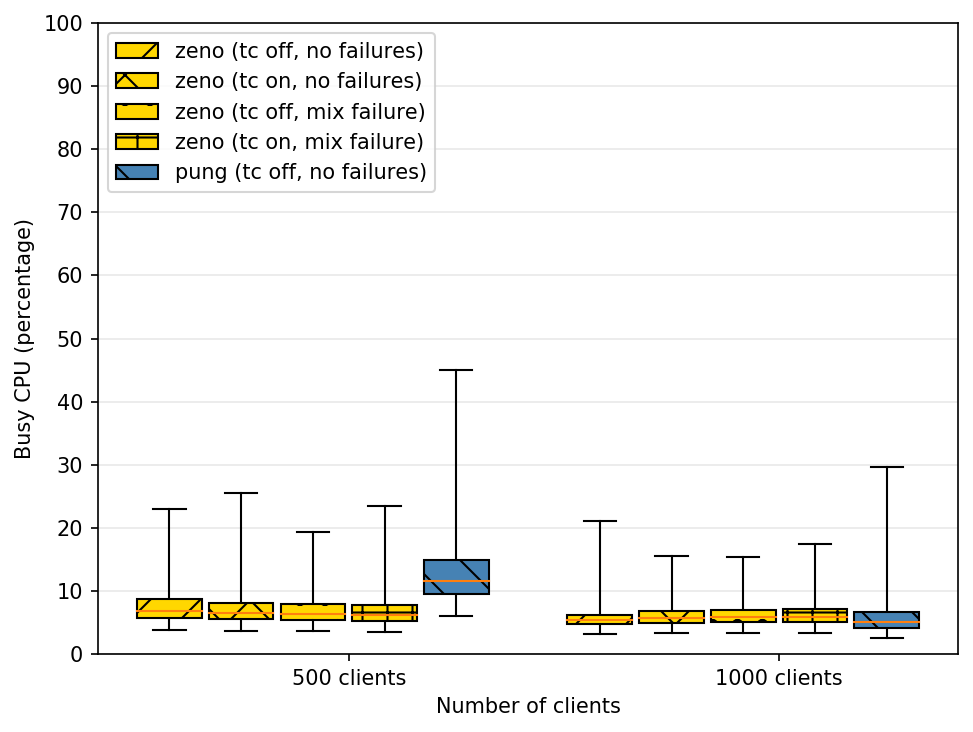
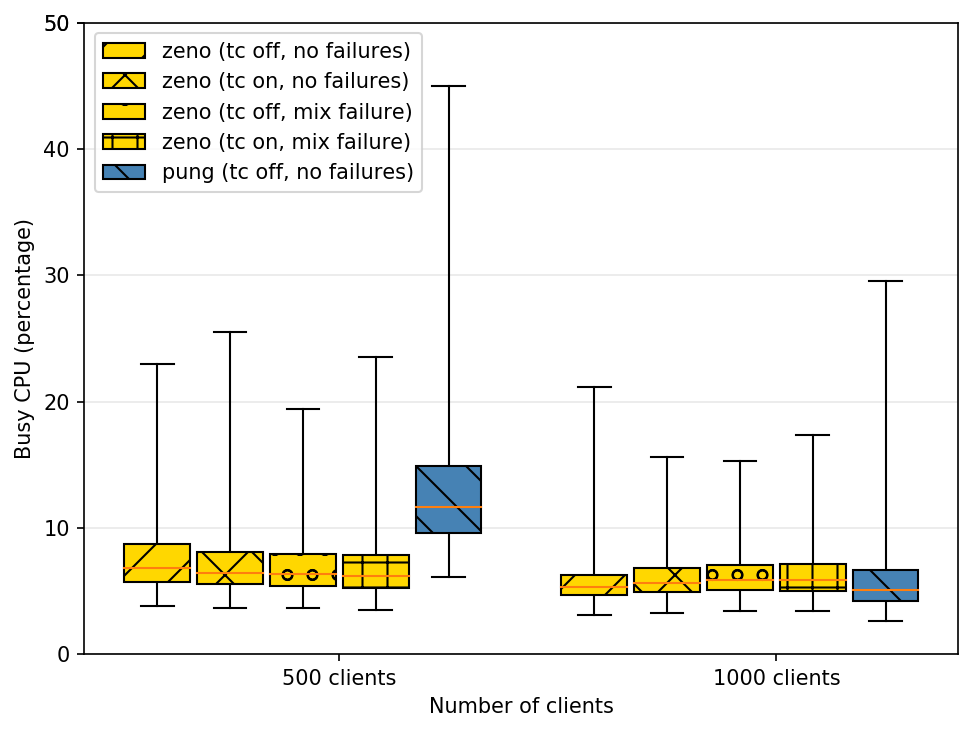
Improved legibility of CPU and latencies figures.

diff --git a/genplots.py b/genplots.py
@@ -704,9 +704,9 @@ def compileLoadCPUClients():
     ax.set_axisbelow(True)
 
     ax.set_xlim([0, 12])
-    ax.set_ylim([0.0, 100.0])
+    ax.set_ylim([0.0, 50.0])
     ax.set_xticks((3.5, 9.5))
-    ax.set_yticks([0, 10, 20, 30, 40, 50, 60, 70, 80, 90, 100])
+    ax.set_yticks([0, 10, 20, 30, 40, 50, 50])
     ax.set_xticklabels(('500 clients', '1000 clients'))
 
     # Add a legend.
@@ -799,7 +799,7 @@ def compileLoadMemClients():
     ax.set_yticks([0, 50, 100, 150, 200, 250, 300, 350, 400, 450, 500])
     ax.set_xticklabels(('500 clients', '1000 clients'))
 
-   # Add a legend.
+    # Add a legend.
     ax.legend(loc='upper left')
 
     plt.tight_layout()
@@ -958,10 +958,10 @@ def compileLoadCPUServers():
     ax.set_axisbelow(True)
 
     ax.set_xlim([0, 12])
-    ax.set_ylim([0.0, 100.0])
+    ax.set_ylim([0.0, 50.0])
     ax.set_xticks((3.5, 9.5))
+    ax.set_yticks([0, 10, 20, 30, 40, 50])
     ax.set_xticklabels(('500 clients', '1000 clients'))
-    ax.set_yticks([0, 10, 20, 30, 40, 50, 60, 70, 80, 90, 100])
 
     # Add a legend.
     ax.legend([set01_zeno01['boxes'][0], set02_zeno01['boxes'][0], set03_zeno01['boxes'][0],
@@ -1053,7 +1053,7 @@ def compileLoadMemServers():
     ax.set_xticklabels(('500 clients', '1000 clients'))
     ax.set_yticks([0, 1, 2, 3, 4, 5, 6, 7, 8, 9, 10])
 
-   # Add a legend.
+    # Add a legend.
     ax.legend(loc='upper left')
 
     plt.tight_layout()
@@ -1194,9 +1194,8 @@ def compileLatencies():
     ax.set_ylim([0.0, 1.0])
     ax.set_yticks((0.0, 0.1, 0.2, 0.3, 0.4, 0.5, 0.6, 0.7, 0.8, 0.9, 1.0))
 
-    boxOfPlot = ax.get_position()
-    ax.set_position([boxOfPlot.x0, boxOfPlot.y0, (boxOfPlot.width * 0.8), boxOfPlot.height])
-    ax.legend(loc='center left', bbox_to_anchor=(1, 0.5))
+    # Add a legend.
+    ax.legend(loc='lower right')
 
     plt.tight_layout()
     plt.xlabel("End-to-end transmission latency (seconds)")
